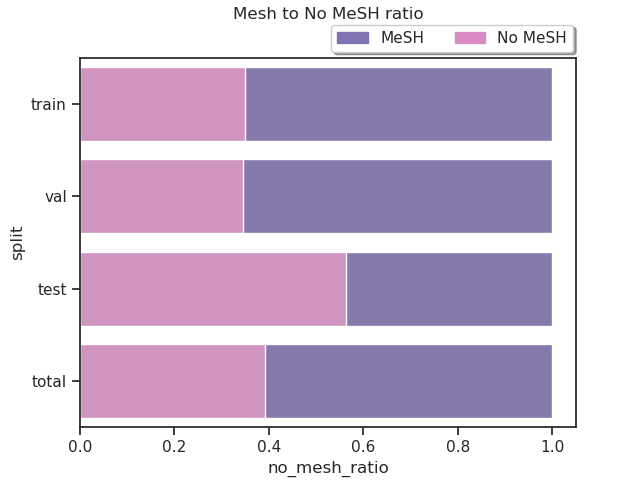
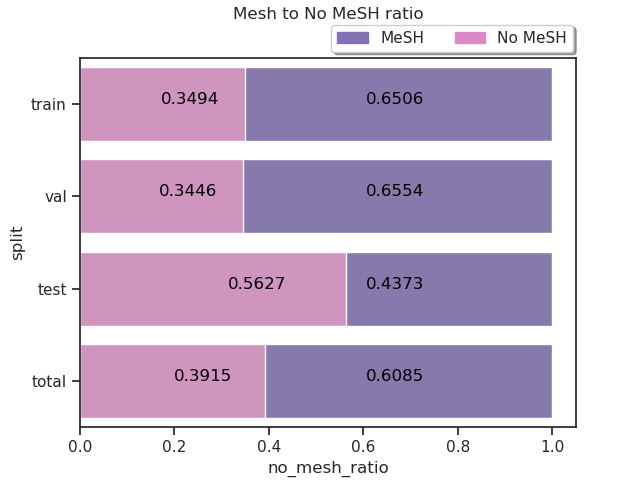
new plots and bar label added

diff --git a/analytics/plot.py b/analytics/plot.py
@@ -50,30 +50,51 @@ class Plot(object):
         dataset["abnormal"] = dataset["sample_size"] - dataset["normal"]
         dataset["indexed"] = dataset["sample_size"] - dataset["no_index"]
         dataset["meshed"] = dataset["sample_size"] - dataset["no_mesh"]
+        dataset["abnormal_ratio"] = dataset["abnormal"] / dataset["sample_size"]
+        dataset["indexed_ratio"] = dataset["indexed"] / dataset["sample_size"]
+        dataset["meshed_ratio"] = dataset["meshed"] / dataset["sample_size"]
 
         return dataset
 
     def plot_stacked_bar(self, dataset, num, xs, ys, colors, labels, number_of_col_in_legend, plot_name, save_name,
-                         is_bar_value=True):
+                         custom_bar_value=None, round_to=4):
         plt.figure(num=num)
         bar_legends = []
         ax = None
         if len(xs) == len(ys) == len(colors) == len(labels):
             for i in range(len(xs)):
                 ax = sns.barplot(x=xs[i], y=ys[i], data=dataset, color=colors[i])
+                if custom_bar_value is None:
+                    ax.bar_label(container=ax.containers[0])
+                else:
+                    for index, row in enumerate(custom_bar_value["ys"]):
+                        ax.text(dataset[xs[i]][index] / 1.5, row,
+                                round(dataset[custom_bar_value["value_key"][i]][index], round_to), color='black',
+                                ha='center')
                 bar_legends.append(mpatches.Patch(color=colors[i], label=labels[i]))
         else:
             if len(xs) == 1 and len(ys) == len(colors) == len(labels):
                 for i in range(len(ys)):
                     ax = sns.barplot(x=xs[0], y=ys[i], data=dataset, color=colors[i])
+                    if custom_bar_value is None:
+                        ax.bar_label(container=ax.containers[0])
+                    else:
+                        for index, row in enumerate(custom_bar_value["ys"]):
+                            ax.text(dataset[xs[i]][index] / 1.5, row,
+                                    round(dataset[custom_bar_value["value_key"][i]][index], round_to), color='black',
+                                    ha='center')
                     bar_legends.append(mpatches.Patch(color=colors[i], label=labels[i]))
             if len(ys) == 1 and len(xs) == len(colors) == len(labels):
                 for i in range(len(xs)):
                     ax = sns.barplot(x=xs[i], y=ys[0], data=dataset, color=colors[i])
+                    if custom_bar_value is None:
+                        ax.bar_label(container=ax.containers[0])
+                    else:
+                        for index, row in enumerate(custom_bar_value["ys"]):
+                            ax.text(dataset[xs[i]][index] / 1.5, row,
+                                    round(dataset[custom_bar_value["value_key"][i]][index], round_to), color='black',
+                                    ha='center')
                     bar_legends.append(mpatches.Patch(color=colors[i], label=labels[i]))
-        if is_bar_value and ax is not None:
-            for i in ax.containers:
-                ax.bar_label(i, )
         plt.legend(loc='upper right', bbox_to_anchor=(1.01, 1.11),
                    ncol=number_of_col_in_legend, fancybox=True, shadow=True, handles=bar_legends)
         plt.title(plot_name, pad=28)

diff --git a/analytics_main.py b/analytics_main.py
@@ -29,10 +29,10 @@ def main():
     print("Is association file valid: ", data_processor.validate_association())
     tokenizer = Tokenizer(args, data_processor)
     # test negation detection
-    negation_detection = NegationDetection(args)
-    for split, split_sample in data_processor.iu_mesh_impression_split.items():
-        for kid, sample in split_sample.items():
-            negation_detection.get_lemmatize_doc_object(sample)
+    # negation_detection = NegationDetection(args)
+    # for split, split_sample in data_processor.iu_mesh_impression_split.items():
+    #     for kid, sample in split_sample.items():
+    #         negation_detection.get_lemmatize_doc_object(sample)
     #################################################################################
     exp_stats = ExperimentsStatistics(tokenizer, args.exp)
     print("exp: ", args.exp, " ", exp_stats.stats)
@@ -95,19 +95,25 @@ def main():
     plot.plot_stacked_bar(dataset=plot.dataset, num=fig_num, xs=["t_ratio", "normal_ratio"], ys=["split"],
                           colors=[plot.abnormal_color, plot.normal_color], labels=['Abnormal', 'Normal'],
                           number_of_col_in_legend=number_of_col_in_legend, plot_name="Normal to Abnormal ratio",
-                          save_name="[Ratio]Normal to Abnormal", is_bar_value=False)
+                          save_name="[Ratio]Normal to Abnormal",
+                          custom_bar_value={"ys": plot.dataset.head().index,
+                                            "value_key": ["abnormal_ratio", "normal_ratio"]})
     # indexed ratio
     fig_num += 1
     plot.plot_stacked_bar(dataset=plot.dataset, num=fig_num, xs=["t_ratio", "no_index_ratio"], ys=["split"],
                           colors=[plot.indexed_color, plot.no_index_color], labels=['Indexed', 'No Indexing'],
                           number_of_col_in_legend=number_of_col_in_legend, plot_name="Indexed to No Indexing ratio",
-                          save_name="[Ratio]Indexed to No Indexing", is_bar_value=False)
+                          save_name="[Ratio]Indexed to No Indexing",
+                          custom_bar_value={"ys": plot.dataset.head().index,
+                                            "value_key": ["indexed_ratio", "no_index_ratio"]})
     # empty mesh ratio
     fig_num += 1
     plot.plot_stacked_bar(dataset=plot.dataset, num=fig_num, xs=["t_ratio", "no_mesh_ratio"], ys=["split"],
                           colors=[plot.mesh_color, plot.no_mesh_color], labels=['MeSH', 'No MeSH'],
                           number_of_col_in_legend=number_of_col_in_legend, plot_name="Mesh to No MeSH ratio",
-                          save_name="[Ratio]Mesh to No MeSH", is_bar_value=False)
+                          save_name="[Ratio]Mesh to No MeSH",
+                          custom_bar_value={"ys": plot.dataset.head().index,
+                                            "value_key": ["meshed_ratio", "no_mesh_ratio"]})
     #
     # # new split
     # args.is_new_random_split = 1
